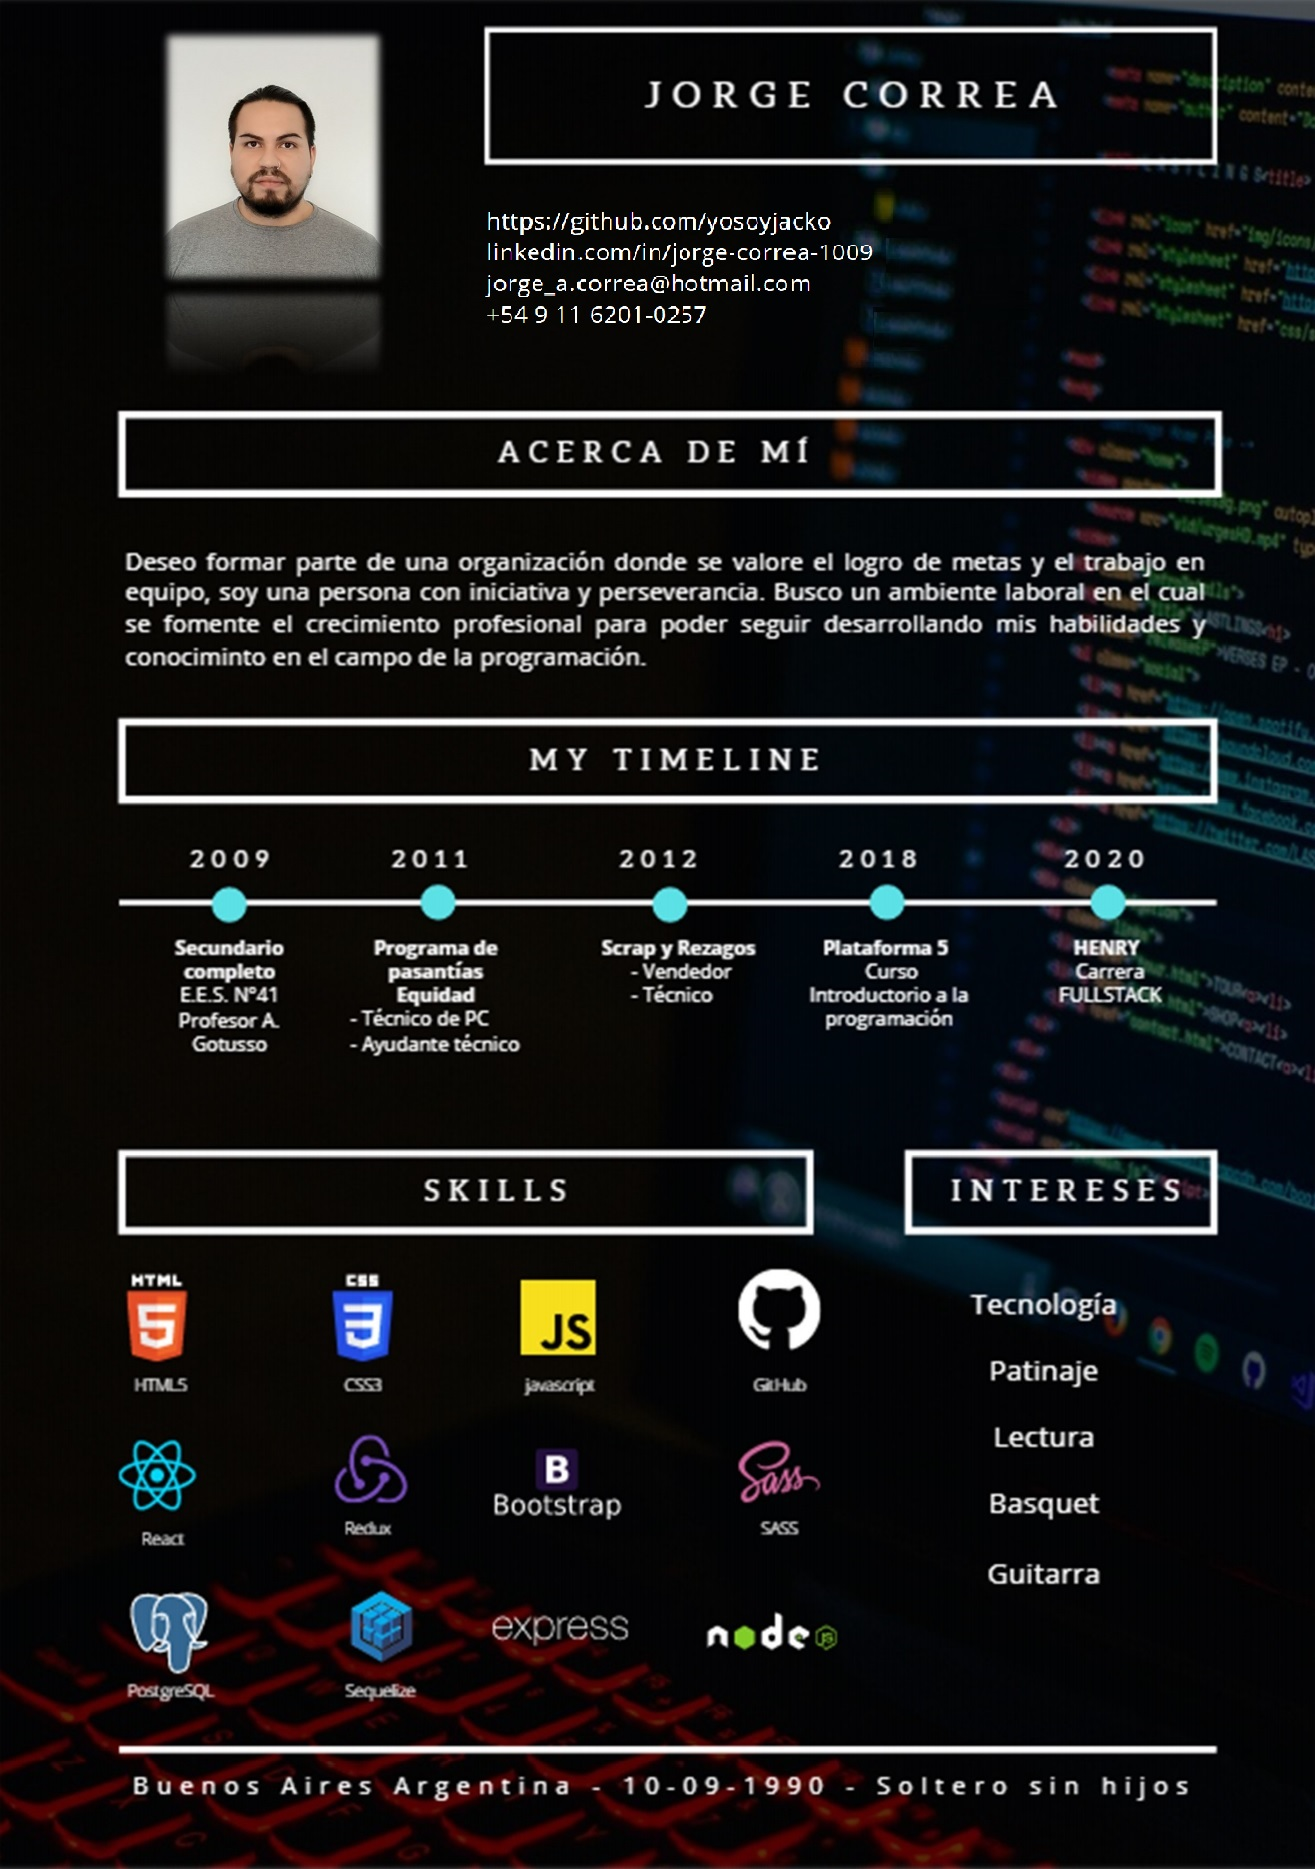
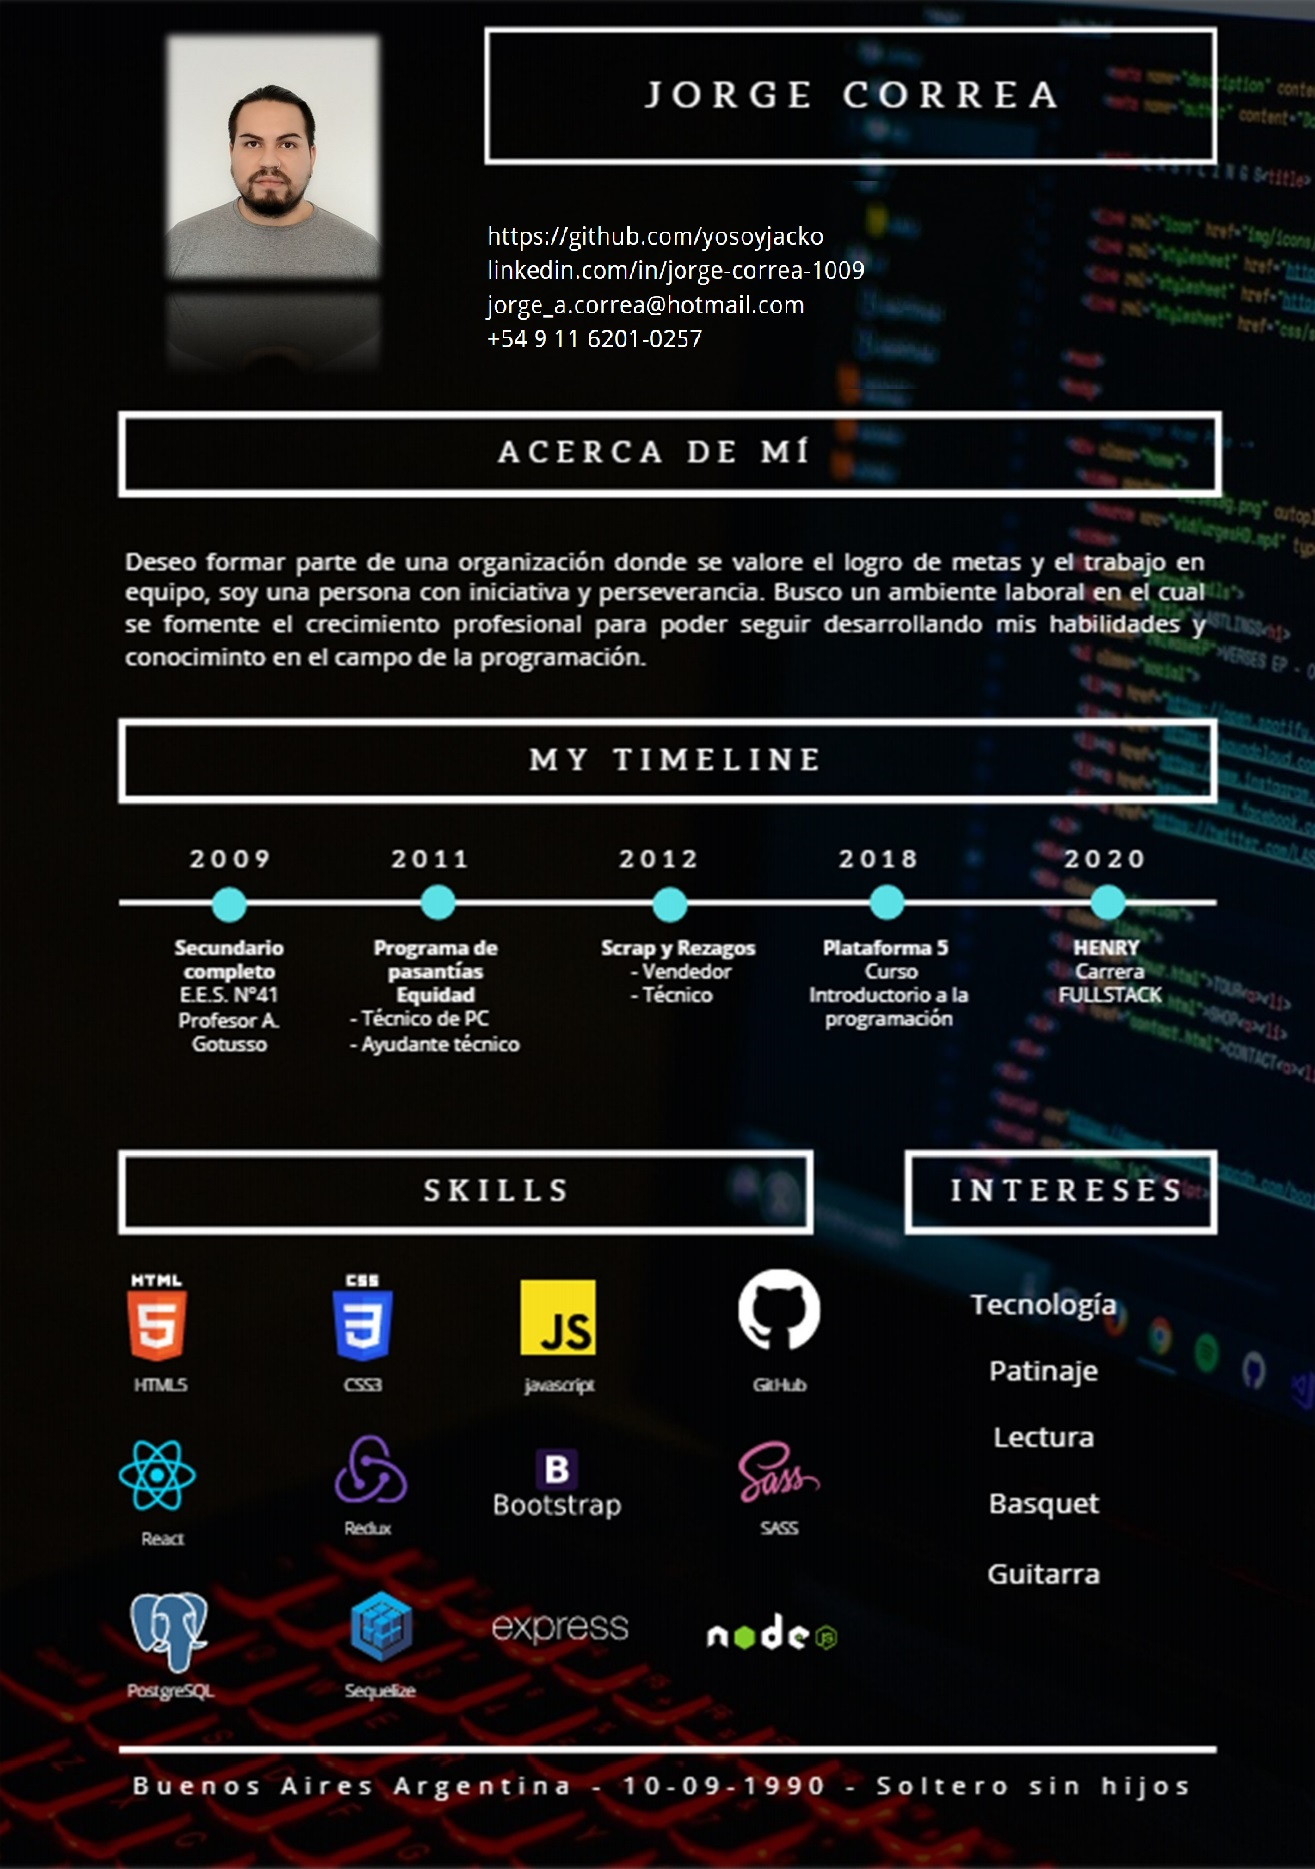
arreglofinal6

Changed region(s): [[0.3741, 0.0931, 0.7171, 0.2172]]

diff --git a/src/components/Formulario.jsx b/src/components/Formulario.jsx
@@ -85,7 +85,7 @@ const Formulario = () => {
                         <h4>Redes</h4>
                         <ul>
                             <li><i class="fas fa-map-marker-alt"></i> Buenos Aires, Argentina</li>
-                            <li><i class="fas fa-phone"></i> (011) 1562010257 </li>
+                            <li><i class="fas fa-phone"></i> +54 9 11 6201-0257 </li>
                             <li><i class="fas fa-envelope-open-text"></i> jorge_a.correa@hotmail.com</li>
                             <li><i class="fab fa-linkedin-in"></i><a href="http://www.linkedin.com/in/jorge-correa-1009" target="_blank" rel="noreferrer"> -> jorge correa</a></li>
                             <li><i class="fab fa-github"></i><a href="http://github.com/yosoyjacko" target="_blank" rel="noreferrer"> -> yosoyjacko</a></li>
